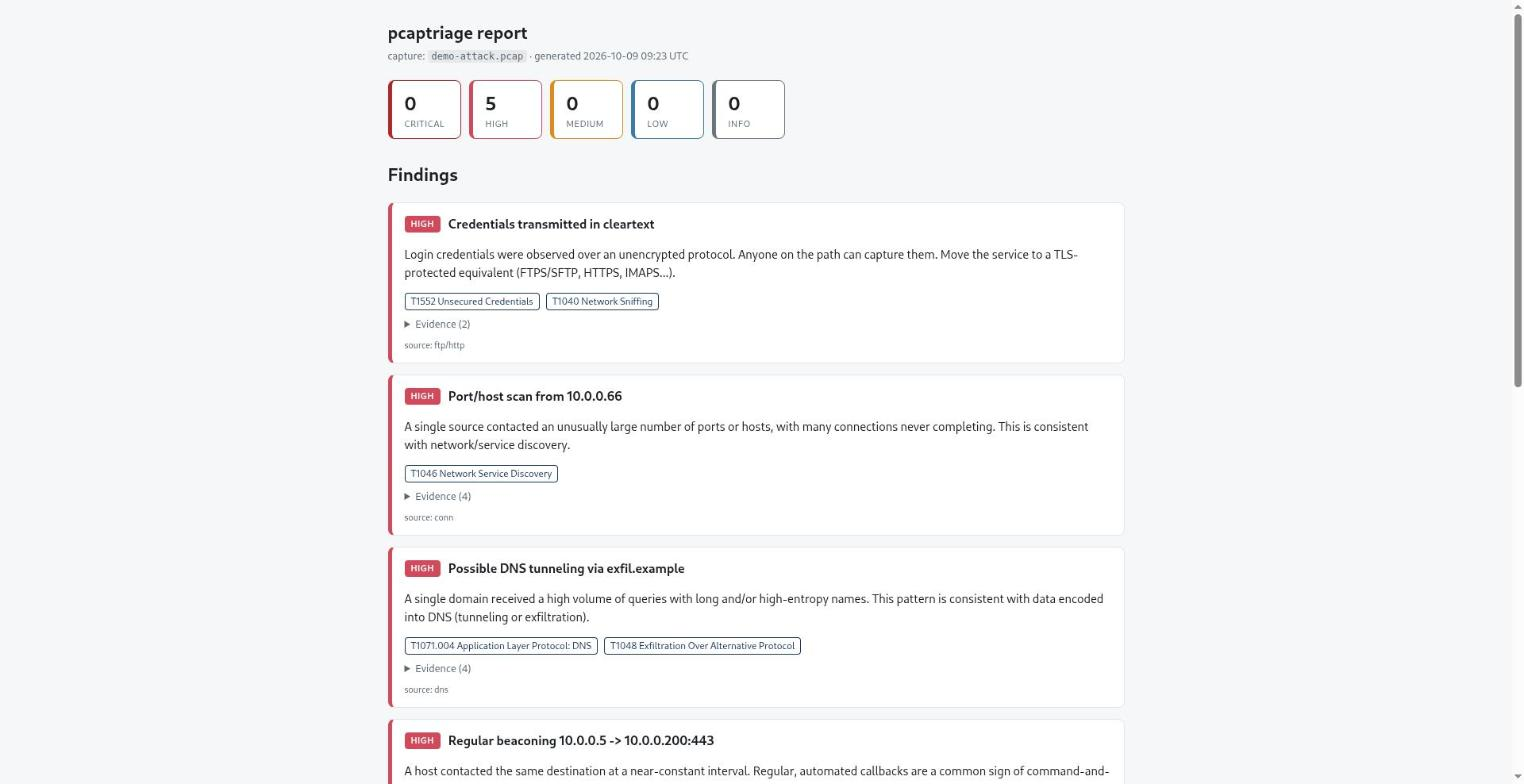
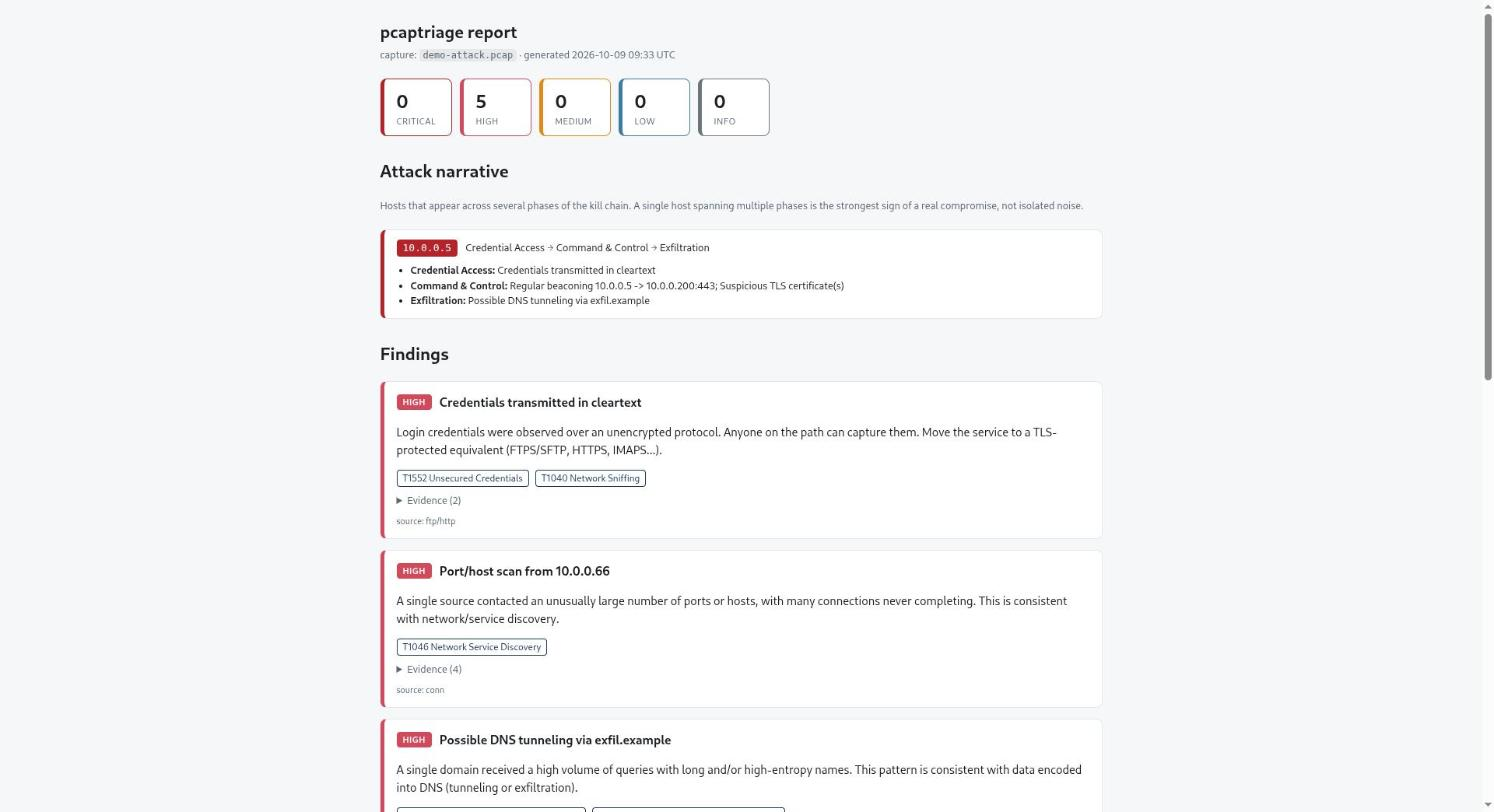
feat: attack-narrative correlation (kill-chain per host)
Correlate findings by the hosts they involve and order them along a
simplified kill chain. A host spanning multiple phases is surfaced as a
likely compromise chain, in the report and findings.json. This is the
layer raw Zeek/Suricata output does not provide.

Changed region(s): [[0.2463, 0.0306, 0.739, 1.0], [0.9853, 0.4592, 1.0, 0.4898]]

diff --git a/pcaptriage/report.py b/pcaptriage/report.py
@@ -86,7 +86,36 @@ def _finding_card(f: Finding) -> str:
     """
 
 
-def render_html(pcap_name: str, summary: dict, findings: List[Finding]) -> str:
+def _narrative_html(chains: list) -> str:
+    if not chains:
+        return ""
+    cards = []
+    for c in chains:
+        flow = ' <span class="arrow">&rarr;</span> '.join(_esc(p) for p in c["phases"])
+        steps = "".join(
+            f"<li><strong>{_esc(p)}:</strong> {_esc('; '.join(c['steps'][p]))}</li>"
+            for p in c["phases"]
+        )
+        cards.append(
+            f"""
+            <article class="chain">
+              <header><span class="pivot">{_esc(c['host'])}</span>
+                <span class="flow">{flow}</span></header>
+              <ul>{steps}</ul>
+            </article>"""
+        )
+    return f"""
+    <section>
+      <h2>Attack narrative</h2>
+      <p class="sub">Hosts that appear across several phases of the kill chain.
+        A single host spanning multiple phases is the strongest sign of a real
+        compromise, not isolated noise.</p>
+      {''.join(cards)}
+    </section>"""
+
+
+def render_html(pcap_name: str, summary: dict, findings: List[Finding], narrative: list = None) -> str:
+    narrative = narrative or []
     findings = sorted(findings, key=lambda f: f.severity_rank(), reverse=True)
     counts = Counter(f.severity for f in findings)
 
@@ -162,6 +191,15 @@ def render_html(pcap_name: str, summary: dict, findings: List[Finding]) -> str:
     background:rgba(127,127,127,.12); padding:1px 5px; border-radius:4px; word-break:break-all; }}
   .finding footer {{ margin-top:8px; color:var(--muted); font-size:11px; }}
   .empty {{ color:var(--muted); }}
+  .chain {{ background:var(--card); border:1px solid var(--line);
+    border-left:5px solid #b4232a; border-radius:8px; padding:12px 16px; margin:12px 0; }}
+  .chain header {{ display:flex; gap:10px; align-items:center; flex-wrap:wrap; }}
+  .pivot {{ font:13px/1.4 ui-monospace,SFMono-Regular,Menlo,monospace;
+    background:#b4232a; color:#fff; padding:2px 8px; border-radius:4px; }}
+  .flow {{ font-size:13px; color:var(--fg); }}
+  .arrow {{ color:var(--muted); }}
+  .chain ul {{ margin:8px 0 0; }}
+  .chain li {{ font-size:13px; }}
 </style>
 </head>
 <body>
@@ -170,6 +208,8 @@ def render_html(pcap_name: str, summary: dict, findings: List[Finding]) -> str:
   <div class="sub">capture: <code>{_esc(pcap_name)}</code> &middot; generated {generated}</div>
 
   <div class="tiles">{sev_tiles}</div>
+
+  {_narrative_html(narrative)}
 
   <section>
     <h2>Findings</h2>

diff --git a/pcaptriage/correlation.py b/pcaptriage/correlation.py
@@ -1,0 +1,68 @@
+"""Correlate findings into an attack narrative.
+
+Individual detections answer "what happened". This layer answers
+"is this a chain?" by pivoting findings on the hosts they involve and
+ordering them along a simplified kill chain. A single host that shows
+up across several phases is the strongest signal of a real compromise,
+and that story is what pcaptriage shows that raw Zeek/Suricata output
+does not.
+"""
+
+from __future__ import annotations
+
+from collections import defaultdict
+from typing import Dict, List
+
+from .detections.base import Finding
+
+# Simplified kill-chain phases, in order.
+PHASE_ORDER = [
+    "Reconnaissance",
+    "Credential Access",
+    "Command & Control",
+    "Exfiltration",
+]
+
+# Map each detection id to a phase.
+PHASE_BY_ID = {
+    "port-scan": "Reconnaissance",
+    "name-poisoning": "Credential Access",
+    "name-resolution-exposed": "Credential Access",
+    "cleartext-creds": "Credential Access",
+    "cleartext-services": "Credential Access",
+    "suspicious-tls": "Command & Control",
+    "beaconing": "Command & Control",
+    "dns-tunneling": "Exfiltration",
+}
+
+
+def build_narrative(findings: List[Finding]) -> List[dict]:
+    """Return per-host attack chains, strongest (most phases) first.
+
+    Each chain: {host, phases: [ordered phase names], steps: {phase: [titles]}}.
+    Only hosts spanning two or more phases are reported as a chain.
+    """
+    host_phase_titles: Dict[str, Dict[str, List[str]]] = defaultdict(lambda: defaultdict(list))
+
+    for f in findings:
+        phase = PHASE_BY_ID.get(f.id)
+        if not phase:
+            continue
+        for host in f.hosts:
+            host_phase_titles[host][phase].append(f.title)
+
+    chains: List[dict] = []
+    for host, phase_titles in host_phase_titles.items():
+        if len(phase_titles) < 2:
+            continue
+        ordered = [p for p in PHASE_ORDER if p in phase_titles]
+        chains.append(
+            {
+                "host": host,
+                "phases": ordered,
+                "steps": {p: phase_titles[p] for p in ordered},
+            }
+        )
+
+    chains.sort(key=lambda c: len(c["phases"]), reverse=True)
+    return chains

diff --git a/pcaptriage/detections/cleartext_creds.py b/pcaptriage/detections/cleartext_creds.py
@@ -21,6 +21,7 @@ CLEARTEXT_SERVICES = {
 def detect_cleartext_creds(logs: Dict[str, List[dict]]) -> List[Finding]:
     findings: List[Finding] = []
     evidence: List[str] = []
+    hosts: set = set()
 
     # FTP: Zeek ftp.log carries 'user' and 'password'.
     for rec in logs.get("ftp", []):
@@ -31,6 +32,8 @@ def detect_cleartext_creds(logs: Dict[str, List[dict]]) -> List[Finding]:
             dst = rec.get("id.resp_h", "?")
             shown_pw = pw if pw else "(captured)"
             evidence.append(f"FTP {src} -> {dst} login user={user} password={shown_pw}")
+            if src != "?":
+                hosts.add(src)
 
     # HTTP basic auth: Zeek http.log exposes 'username' (and 'password').
     for rec in logs.get("http", []):
@@ -40,6 +43,8 @@ def detect_cleartext_creds(logs: Dict[str, List[dict]]) -> List[Finding]:
             host = rec.get("host", rec.get("id.resp_h", "?"))
             uri = rec.get("uri", "")
             evidence.append(f"HTTP basic auth {src} -> {host}{uri} user={user}")
+            if src != "?":
+                hosts.add(src)
 
     # Any session on a cleartext service, from conn.log (coarse signal).
     cleartext_sessions = 0
@@ -62,6 +67,7 @@ def detect_cleartext_creds(logs: Dict[str, List[dict]]) -> List[Finding]:
                 mitre=["T1552", "T1040"],
                 evidence=evidence[:25],
                 source_log="ftp/http",
+                hosts=sorted(hosts),
             )
         )
     elif cleartext_sessions:

diff --git a/pcaptriage/detections/dns_tunneling.py b/pcaptriage/detections/dns_tunneling.py
@@ -41,6 +41,7 @@ def detect_dns_tunneling(logs: Dict[str, List[dict]]) -> List[Finding]:
     count_by_domain: Dict[str, int] = defaultdict(int)
     len_sum_by_domain: Dict[str, int] = defaultdict(int)
     ent_sum_by_domain: Dict[str, float] = defaultdict(float)
+    hosts_by_domain: Dict[str, set] = defaultdict(set)
 
     for rec in dns:
         qname = rec.get("query")
@@ -52,6 +53,9 @@ def detect_dns_tunneling(logs: Dict[str, List[dict]]) -> List[Finding]:
         count_by_domain[dom] += 1
         len_sum_by_domain[dom] += len(qname)
         ent_sum_by_domain[dom] += _entropy(sub)
+        src = rec.get("id.orig_h")
+        if src:
+            hosts_by_domain[dom].add(src)
 
     findings: List[Finding] = []
     for dom, count in sorted(count_by_domain.items(), key=lambda kv: kv[1], reverse=True):
@@ -77,8 +81,10 @@ def detect_dns_tunneling(logs: Dict[str, List[dict]]) -> List[Finding]:
                         f"query count: {count}",
                         f"average query length: {avg_len:.1f}",
                         f"average subdomain entropy: {avg_ent:.2f}",
+                        f"querying hosts: {', '.join(sorted(hosts_by_domain[dom])[:8])}",
                     ],
                     source_log="dns",
+                    hosts=sorted(hosts_by_domain[dom]),
                 )
             )
 

diff --git a/pcaptriage/cli.py b/pcaptriage/cli.py
@@ -9,6 +9,7 @@ from pathlib import Path
 from typing import List
 
 from . import __version__
+from .correlation import build_narrative
 from .detections import all_detections
 from .loader import load_logs
 from .report import build_summary, render_html
@@ -40,9 +41,10 @@ def _analyze_one(pcap: Path, out_root: Path, args) -> int:
         findings.extend(detect(logs))
 
     summary = build_summary(logs)
+    narrative = build_narrative(findings)
 
     report_path = case_dir / "report.html"
-    report_path.write_text(render_html(pcap.name, summary, findings), encoding="utf-8")
+    report_path.write_text(render_html(pcap.name, summary, findings, narrative), encoding="utf-8")
 
     json_path = case_dir / "findings.json"
     json_path.write_text(
@@ -50,6 +52,7 @@ def _analyze_one(pcap: Path, out_root: Path, args) -> int:
             {
                 "pcap": pcap.name,
                 "summary": {k: v for k, v in summary.items()},
+                "narrative": narrative,
                 "findings": [f.to_dict() for f in findings],
             },
             indent=2,

diff --git a/pcaptriage/detections/suspicious_tls.py b/pcaptriage/detections/suspicious_tls.py
@@ -25,17 +25,21 @@ def detect_suspicious_tls(logs: Dict[str, List[dict]]) -> List[Finding]:
 
     evidence: List[str] = []
     reasons: Counter = Counter()
+    hosts: set = set()
 
     for rec in ssl:
         status = (rec.get("validation_status") or "").lower()
         subject = rec.get("subject", "")
         server = rec.get("server_name", "")
+        src = rec.get("id.orig_h")
         dst = rec.get("id.resp_h", "?")
         dport = rec.get("id.resp_p", "?")
         if status and status != "ok" and (status in BAD_STATUSES or "self signed" in status or "expired" in status):
             reasons[status] += 1
             label = server or subject or "(no SNI/subject)"
             evidence.append(f"{dst}:{dport} {label} -> {status}")
+            if src:
+                hosts.add(src)
 
     if not evidence:
         return []
@@ -61,5 +65,6 @@ def detect_suspicious_tls(logs: Dict[str, List[dict]]) -> List[Finding]:
             mitre=["T1573"],
             evidence=evidence[:25],
             source_log="ssl",
+            hosts=sorted(hosts),
         )
     ]

diff --git a/pcaptriage/detections/base.py b/pcaptriage/detections/base.py
@@ -23,6 +23,7 @@ class Finding:
     mitre: List[str] = field(default_factory=list)   # technique ids, e.g. ["T1110"]
     evidence: List[str] = field(default_factory=list)
     source_log: str = ""         # which Zeek log it came from
+    hosts: List[str] = field(default_factory=list)   # IPs central to this finding (for correlation)
 
     def severity_rank(self) -> int:
         return SEVERITY_ORDER.get(self.severity, 0)

diff --git a/pcaptriage/detections/beaconing.py b/pcaptriage/detections/beaconing.py
@@ -65,6 +65,7 @@ def detect_beaconing(logs: Dict[str, List[dict]]) -> List[Finding]:
                     f"interval regularity (CV): {cv:.3f} (lower = more regular)",
                 ],
                 source_log="conn",
+                hosts=[src, dst],
             )
         )
 

diff --git a/pcaptriage/detections/name_poisoning.py b/pcaptriage/detections/name_poisoning.py
@@ -77,6 +77,7 @@ def detect_name_poisoning(logs: Dict[str, List[dict]]) -> List[Finding]:
                         f"sample victims: {sample}",
                     ],
                     source_log="conn",
+                    hosts=[responder],
                 )
             )
 

diff --git a/pcaptriage/detections/port_scan.py b/pcaptriage/detections/port_scan.py
@@ -68,6 +68,7 @@ def detect_port_scan(logs: Dict[str, List[dict]]) -> List[Finding]:
                     mitre=["T1046"],
                     evidence=evidence,
                     source_log="conn",
+                    hosts=[src],
                 )
             )
 

diff --git a/README.md b/README.md
@@ -15,7 +15,17 @@ verdict lisible, pas pour remplacer le decodeur de Wireshark.
 
 ![Exemple de rapport pcaptriage](docs/report.jpg)
 
-*Exemple de rapport : findings priorises par severite, chacun mappe sur MITRE ATT&CK.*
+*Exemple de rapport : un **recit d'attaque** (les hotes qui traversent plusieurs
+phases de la kill chain) au-dessus des findings priorises et mappes MITRE ATT&CK.*
+
+## Ce qui le distingue de Zeek / Suricata
+
+Zeek et Suricata produisent des evenements. pcaptriage ajoute la couche qu'ils
+ne font pas : il **correle** les findings par hote et les ordonne le long d'une
+kill chain simplifiee (Reconnaissance -> Credential Access -> C2 ->
+Exfiltration). Un hote qui apparait dans plusieurs phases est signale comme
+chaine de compromission probable. C'est le passage de "voici des evenements" a
+"voici l'histoire".
 
 ## Ce qu'il detecte
 
